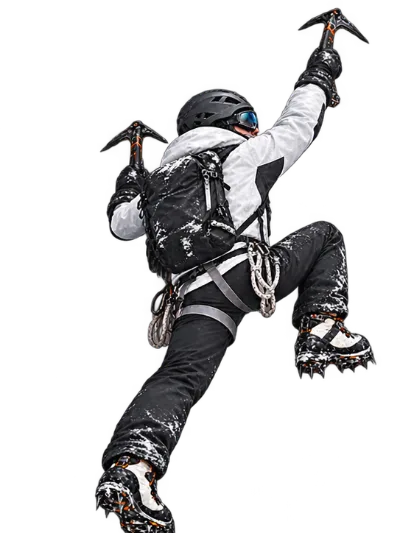
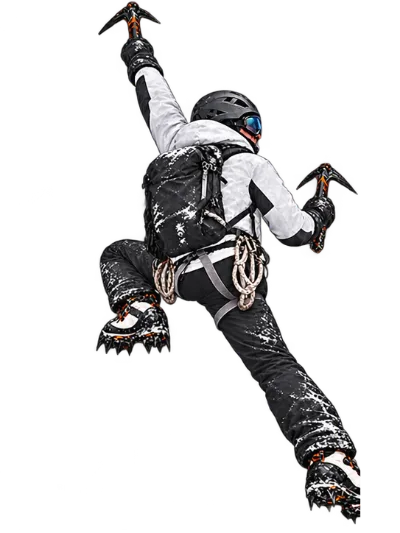
feat: give Ascent climber alternating footwork

diff --git a/assets/js/expedition.js b/assets/js/expedition.js
@@ -16,15 +16,35 @@
   const climber = root.querySelector('[data-expedition-climber]');
   const primaryFrame = climber.querySelector('[data-climber-frame-primary]');
   const firstFrameUrl = primaryFrame.getAttribute('href');
-  const frameUrls = Array.from({ length: 12 }, (_, index) =>
+  const frameUrls = Array.from({ length: 17 }, (_, index) =>
     firstFrameUrl.replace(/01\.webp$/, `${String(index + 1).padStart(2, '0')}.webp`));
-  // Complete illustrated poses replace the old rotating arm/leg fragments.
-  // Preload the small WebPs so a fast wheel gesture does not reveal a blank pose.
-  const frameCache = frameUrls.map(src => {
-    const image = new Image();
-    image.src = src;
-    return image;
-  });
+  // Register each complete illustration by its blue-goggle center. Source
+  // sheets varied in character placement; the old unregistered swaps made
+  // the whole body jump even when the route/camera was continuous.
+  const registration = [
+    [-5, 7], [17, 8], [-3, 22], [-6, 18], [22, 20],
+    [-7, -8], [5, -9], [-10, -6], [-25, -8], [-6, -8],
+    [6, -7], [-21, -6], [0, -7], [-25, -11], [39, -10],
+    [-6, 14], [38, 0],
+  ];
+  // Warm the remaining poses after the first page paint. Fetching all 17 at
+  // startup competed with the mountain's first paint on mobile. Any deliberate
+  // wheel/touch interaction starts preloading sooner.
+  const frameCache = [];
+  const preloadFrames = () => {
+    if (frameCache.length) return;
+    frameUrls.slice(1).forEach(src => {
+      const image = new Image();
+      image.src = src;
+      frameCache.push(image);
+    });
+  };
+  const schedulePreload = () => setTimeout(preloadFrames, 1200);
+  if (document.readyState === 'complete') schedulePreload();
+  else addEventListener('load', schedulePreload, { once: true });
+  addEventListener('wheel', preloadFrames, { once: true, passive: true });
+  addEventListener('touchstart', preloadFrames, { once: true, passive: true });
+  addEventListener('keydown', preloadFrames, { once: true });
   const ease = value => value * value * (3 - 2 * value);
   const clamp01 = value => Math.max(0, Math.min(1, value));
   const position = root.querySelector('[data-expedition-position]');
@@ -112,6 +132,8 @@
     const frameIndex = Math.floor(pose);
     if (primaryFrame.getAttribute('href') !== frameUrls[frameIndex])
       primaryFrame.setAttribute('href', frameUrls[frameIndex]);
+    primaryFrame.setAttribute('x', registration[frameIndex][0]);
+    primaryFrame.setAttribute('y', registration[frameIndex][1]);
     climber.setAttribute('transform', `translate(${(point.x + 45).toFixed(2)} ${(point.y + 65).toFixed(2)}) scale(1.65)`);
     position.textContent = String(Math.min(stages + 1, Math.floor(current) + 1)).padStart(2, '0');
     const nearest = Math.round(current);
@@ -193,6 +215,7 @@
   });
   addEventListener('scroll', () => {
     if (!scrollFrame) scrollTarget = scrollPosition = scrollY;
+    if (scrollY > 0) preloadFrames();
     requestSync();
   }, { passive: true });
   addEventListener('resize', measure);

diff --git a/_layouts/default.html b/_layouts/default.html
@@ -19,7 +19,7 @@
   <script src="{{ '/assets/js/site.js' | relative_url }}" defer></script>
   <script src="{{ '/assets/js/experience.js' | relative_url }}" defer></script>
   <script src="{{ '/assets/js/contact.js' | relative_url }}" defer></script>
-  {% if page.url == '/journey/' %}<script src="{{ '/assets/js/expedition.js' | relative_url }}?v=ascent-8" defer></script>{% endif %}
+  {% if page.url == '/journey/' %}<script src="{{ '/assets/js/expedition.js' | relative_url }}?v=ascent-9" defer></script>{% endif %}
 </head>
 <body data-baseurl="{{ site.baseurl }}">
   {% include header.html %}

diff --git a/PROJECT_STATUS.md b/PROJECT_STATUS.md
@@ -4,7 +4,7 @@ Updated: October 12, 2026 (America/Los_Angeles).
 
 ## Current state
 
-**The approved site design remains intact. The dedicated Ascent now uses 12 complete, separately illustrated black-and-white climber poses. No limb cutouts, joint rotation, or limb scaling remain.** The self-service Markdown workflow, original content, four navigation destinations, existing links and approved page structure remain intact. Earlier Firefox/WebKit results predate this latest refinement; their executables are unavailable in this environment. Nothing has been pushed, merged or deployed.
+**The approved site design remains intact. The dedicated Ascent now uses 17 complete, registered black-and-white climber poses. The left crampon rises opposite the right-hand reach, then the right crampon rises opposite the left-hand reach. No limb cutouts, joint rotation, or limb scaling remain.** The self-service Markdown workflow, original content, four navigation destinations, existing links and approved page structure remain intact. Earlier Firefox/WebKit results predate this latest refinement; their executables are unavailable in this environment. Nothing has been pushed, merged or deployed.
 
 - Active repository: `C:/Users/super/Documents/ChatGPT/portfolio website remodel/portfolio-v2`.
 - Branch: `codex/portfolio-v2`, based on `da50b14` (`main`).
@@ -13,7 +13,15 @@ Updated: October 12, 2026 (America/Los_Angeles).
 - Local preview: `http://127.0.0.1:4173/`, serving production `_site` output.
 - Parent workspace `PROJECT_STATUS.md` points here. This is the canonical handoff.
 
-## October 12 full-body frame animation — latest handoff
+## October 12 alternating-step refinement — latest handoff
+
+- Completed: replaced the old mostly static-leg 12-frame sequence with 17 curated complete-body drawings. New source art comprises four 2 × 2 climbing/hand-over sheets and two purpose-drawn intermediate steps; `npm run build:climber-frames` produces optimized WebPs. The right hand's high reach now coincides with a visibly rising **left** foot. The left hand's high reach coincides with a visibly rising **right** foot. Registered each whole image by its blue-goggle center to prevent source-sheet placement differences from making the head and torso jitter. Only one fully opaque pose is shown at a time. The route, mountain, wall, camera, post layout, content and other site pages are unchanged; the script cache version is `ascent-9`.
+- Design/technical decision: a two-layer crossfade was tested in the rendered page and rejected because it made the character translucent and showed duplicate boots/tools. An experimental optical-flow midpoint was also rejected because it invented broken extra legs. The final frames are whole painted figures with no independent limb transforms. Camera/scroll progress remains continuously eased, while the character artwork is a 17-step loop per entry. It is not an actual 30 fps video or a physical climbing simulation.
+- Testing: baseline production build and focused Chrome Ascent tests passed before editing. After editing, the production Jekyll build, 26-source-file/9-post/47-page/1,688-reference integrity check and nine article contracts passed. The full Chrome suite passed: 94 routes, 132 responsive pages, 22 axe scans, six general interaction groups, 10 experience groups, 11 editorial groups and 10 Ascent groups. The focused Ascent test verifies leg movement directly from rendered image pixels: left boot leaves the low foothold during the right-hand phase, then right boot leaves its low foothold during the left-hand phase. All 17 phases were captured from the real `/journey/` page and visually reviewed as a contact sheet, with no ghost limbs or body-part separation; desktop and mobile page screenshots were also inspected. A first Lighthouse run caught a mobile performance regression from immediate 17-image preloading. Delaying the remaining frames until after first paint/first interaction restored a passing Ascent score: 95 mobile / 99 desktop performance, 100 accessibility/best practices/SEO and CLS 0 in both local lab runs. Other tested routes scored 98–100 performance except mobile Home at 98. JavaScript syntax, extraction reproducibility and Git whitespace checks are part of final validation.
+- Currently in progress: none after this handoff is committed. Known issues: artwork has discrete frames, so very slow scroll can reveal individual pose changes; the wall/foot contact is illustrated rather than physically solved. Real-device perceived motion remains to be reviewed. Firefox/WebKit test executables are unavailable; remote Linux CI and custom-domain settings remain unverified. Nothing pushed, merged or deployed.
+- **Exact recommended next task:** review the revised `/journey/` animation at `http://127.0.0.1:4173/journey/` with slow and fast scrolls in both directions on a real device, judging the opposite footstep and frame continuity. If filmed motion is still required, use a coherent purpose-animated sequence or transparent video created from a consistent character model; do not return to independently hinged raster limbs. Restore Firefox/WebKit runners and run branch-only Linux CI before any production merge.
+
+## October 12 full-body frame animation — prior handoff
 
 - Completed: replaced the cutout SVG rig with a 12-pose scroll-driven sequence based on the approved black-and-white alpine climber. Three original transparent sprite sheets are retained under `assets/img/`; the reproducible `npm run build:climber-frames` script splits them into optimized 400 × 533 WebPs under `assets/media/`. The page preloads these assets, displays one intact full-body drawing per phase, and keeps the established route, camera, ice wall, post layout and site design. Bumped the Ascent script cache version. No arm or leg is independently rotated, stretched or detached.
 - Design/technical decision: a two-pose crossfade produced visible ghost limbs during visual inspection, so the site switches whole illustrated frames instead. This is 12 distinct frames per entry on a continuously animated scroll/camera path, not a 30 fps video or biomechanical simulation. Reduced-motion uses one pose. The generated drawings preserve the prior rear three-quarter view and unbranded black-and-white technical outfit.
@@ -224,8 +232,8 @@ Evidence: `docs/VALIDATION.txt`, `docs/browser-results.json`, `docs/experience-r
 - Windows WebKit is not native Safari/iOS device coverage. Manual screen-reader/device review has not been performed; automated checks are not WCAG certification.
 - Native cross-document transitions differ by engine: Chrome/WebKit use them; tested Firefox uses the entrance fallback. Reduced motion removes both.
 - Docker/devcontainer execution remains untested; the native Ruby workflow is verified.
-- The October 12 full-body frame revision above is the current implementation. Final visual review and publication checks remain.
-- Currently in progress: none after the October 12 full-body frame commit.
+- The October 12 alternating-step refinement above is the current implementation. Real-device visual review and publication checks remain.
+- Currently in progress: none after the alternating-step refinement commit.
 
 ## Logical commits
 
@@ -247,7 +255,7 @@ The earlier architecture, design, asset and validation commits remain intact (`8
 
 ## Exact recommended next task
 
-**Review the new 12-pose `/journey/` climb at `http://127.0.0.1:4173/journey/` in slow and fast scrolls, both directions, especially frame continuity and hand/boot contact. If a truly video-like result is still needed, use a coherent purpose-animated sequence or transparent video, not independently transformed limbs. Restore Firefox/WebKit testing, run branch-only Linux CI, and verify custom-domain settings before production merge. Never push or merge directly into main.**
+**Review the new 17-pose `/journey/` climb at `http://127.0.0.1:4173/journey/` in slow and fast scrolls, both directions, especially opposite-leg movement, frame continuity and hand/boot contact. If filmed motion is still needed, use a coherent purpose-animated sequence or transparent video, not independently transformed limbs. Restore Firefox/WebKit testing, run branch-only Linux CI, and verify custom-domain settings before production merge. Never push or merge directly into main.**
 
 ## Reproducible local commands
 

diff --git a/docs/ASCENT_ART.md b/docs/ASCENT_ART.md
@@ -9,7 +9,8 @@ The mountain backdrop, close ice wall and climber poses are original generated i
 - Foreground source: `assets/img/ascent-icewall-illustration.png`; responsive alpha WebP: `assets/media/ascent-icewall-800.webp` and `ascent-icewall-480.webp`, with `ascent-icewall-480.avif` on supported mobile browsers.
 - Earlier orange climber source: `assets/img/ascent-climber-frames.png`; its first transparent pose remains at `assets/media/ascent-climber-01.webp` for provenance, but is no longer loaded by the page. That sheet did not provide the current black-and-white frame sequence.
 - Earlier black-and-white climber source: `assets/img/ascent-climber-alpine.png` (1086 × 1448, transparent); optimized single pose: `assets/media/ascent-climber-alpine.webp`. It informed the current clothing, gear and view angle. The hinged raster-limb rig that cut up this painting was removed after it repeatedly produced broken-looking joints.
-- Current animation sources: `assets/img/ascent-climber-cycle-right-a.png`, `ascent-climber-cycle-left.png`, and `ascent-climber-cycle-right-b.png`. Each transparent 2 × 2 sheet contains four complete, separately illustrated climber poses. `npm run build:climber-frames` splits and optimizes them to `assets/media/ascent-climber-frame-01.webp` through `-12.webp` (400 × 533, roughly 480 KB combined). The site preloads the 12 WebPs and shows exactly one complete pose per scroll phase. Arms, legs, jacket and gear are never transformed separately. The scene remains at 60 Hz scroll/camera updates, but the artwork has 12 discrete poses per entry, not a 30 fps video or physically simulated climb. An attempted full-figure crossfade was removed because intermediate blends looked like extra limbs. Reduced-motion holds the first pose. The outfit is unbranded black-and-white alpine technical gear.
+- Current animation sources: four transparent 2 × 2 sheets in `assets/img/ascent-climb-step-left.png`, `ascent-climb-hand-to-left.png`, `ascent-climb-step-right.png`, and `ascent-climb-hand-to-right.png`, plus the two full-size intermediate poses `ascent-climb-left-foot-mid.png` and `ascent-climb-right-foot-mid.png`. These were generated with the earlier black-and-white climber as a visual reference, then visually curated into a 17-pose cycle: high right tool with rising left crampon; handover to the high left tool; rising right crampon; handover back to the right tool. The intermediate drawings close the largest leg-position jumps. `npm run build:climber-frames` extracts/optimizes them to `assets/media/ascent-climber-frame-01.webp` through `-17.webp` (400 × 533). The older three cycle sheets remain as provenance but are not used in this revision.
+- The site warms the remaining 16 WebPs after the first page paint or on the viewer's first scroll interaction, and shows exactly one complete pose at a time. Each whole illustration is translated slightly so its blue goggles stay at a common anchor. Arms, legs, jacket and gear are never independently rotated or resized. We tried a two-image crossfade in the browser but rejected it because it made the climber translucent and duplicated tools/feet; we also rejected an optical-flow intermediate because it produced broken extra legs. The scene's route/camera update continuously, while the artwork remains 17 discrete poses per entry rather than a filmed or physically simulated climb. Reduced-motion holds the first pose. The outfit is unbranded black-and-white alpine technical gear.
 - The Home identity section reuses the existing Everest illustration through its 800 px WebP derivative. No new mountain asset was generated.
 
 Movement references: [Petzl's ice-climbing technique video](https://www.petzl.com/int/en/sport/tech-tips/basic-techniques/ice-climbing-technique---the-basics/Cascade-gestuelle_SPO_a771r000000PFoJAAW.html) and [Petzl's Ice Climbing Basics access book](https://s3.amazonaws.com/Petzl_home_Prod/Accessbook/ACCESSBOOK-ICE-CLIMBING-EN-2018.pdf) emphasize stable stance and rising through the legs. [Wyoming Mountain Guides' introductory course guide](https://wyomingmountainguides.com/ice-climbing/intro-to-ice-climbing-course-guide/) describes moving the opposite foot first from the high tool. These sources informed the illustration's rhythm; the website is not climbing instruction or a physical simulation.
